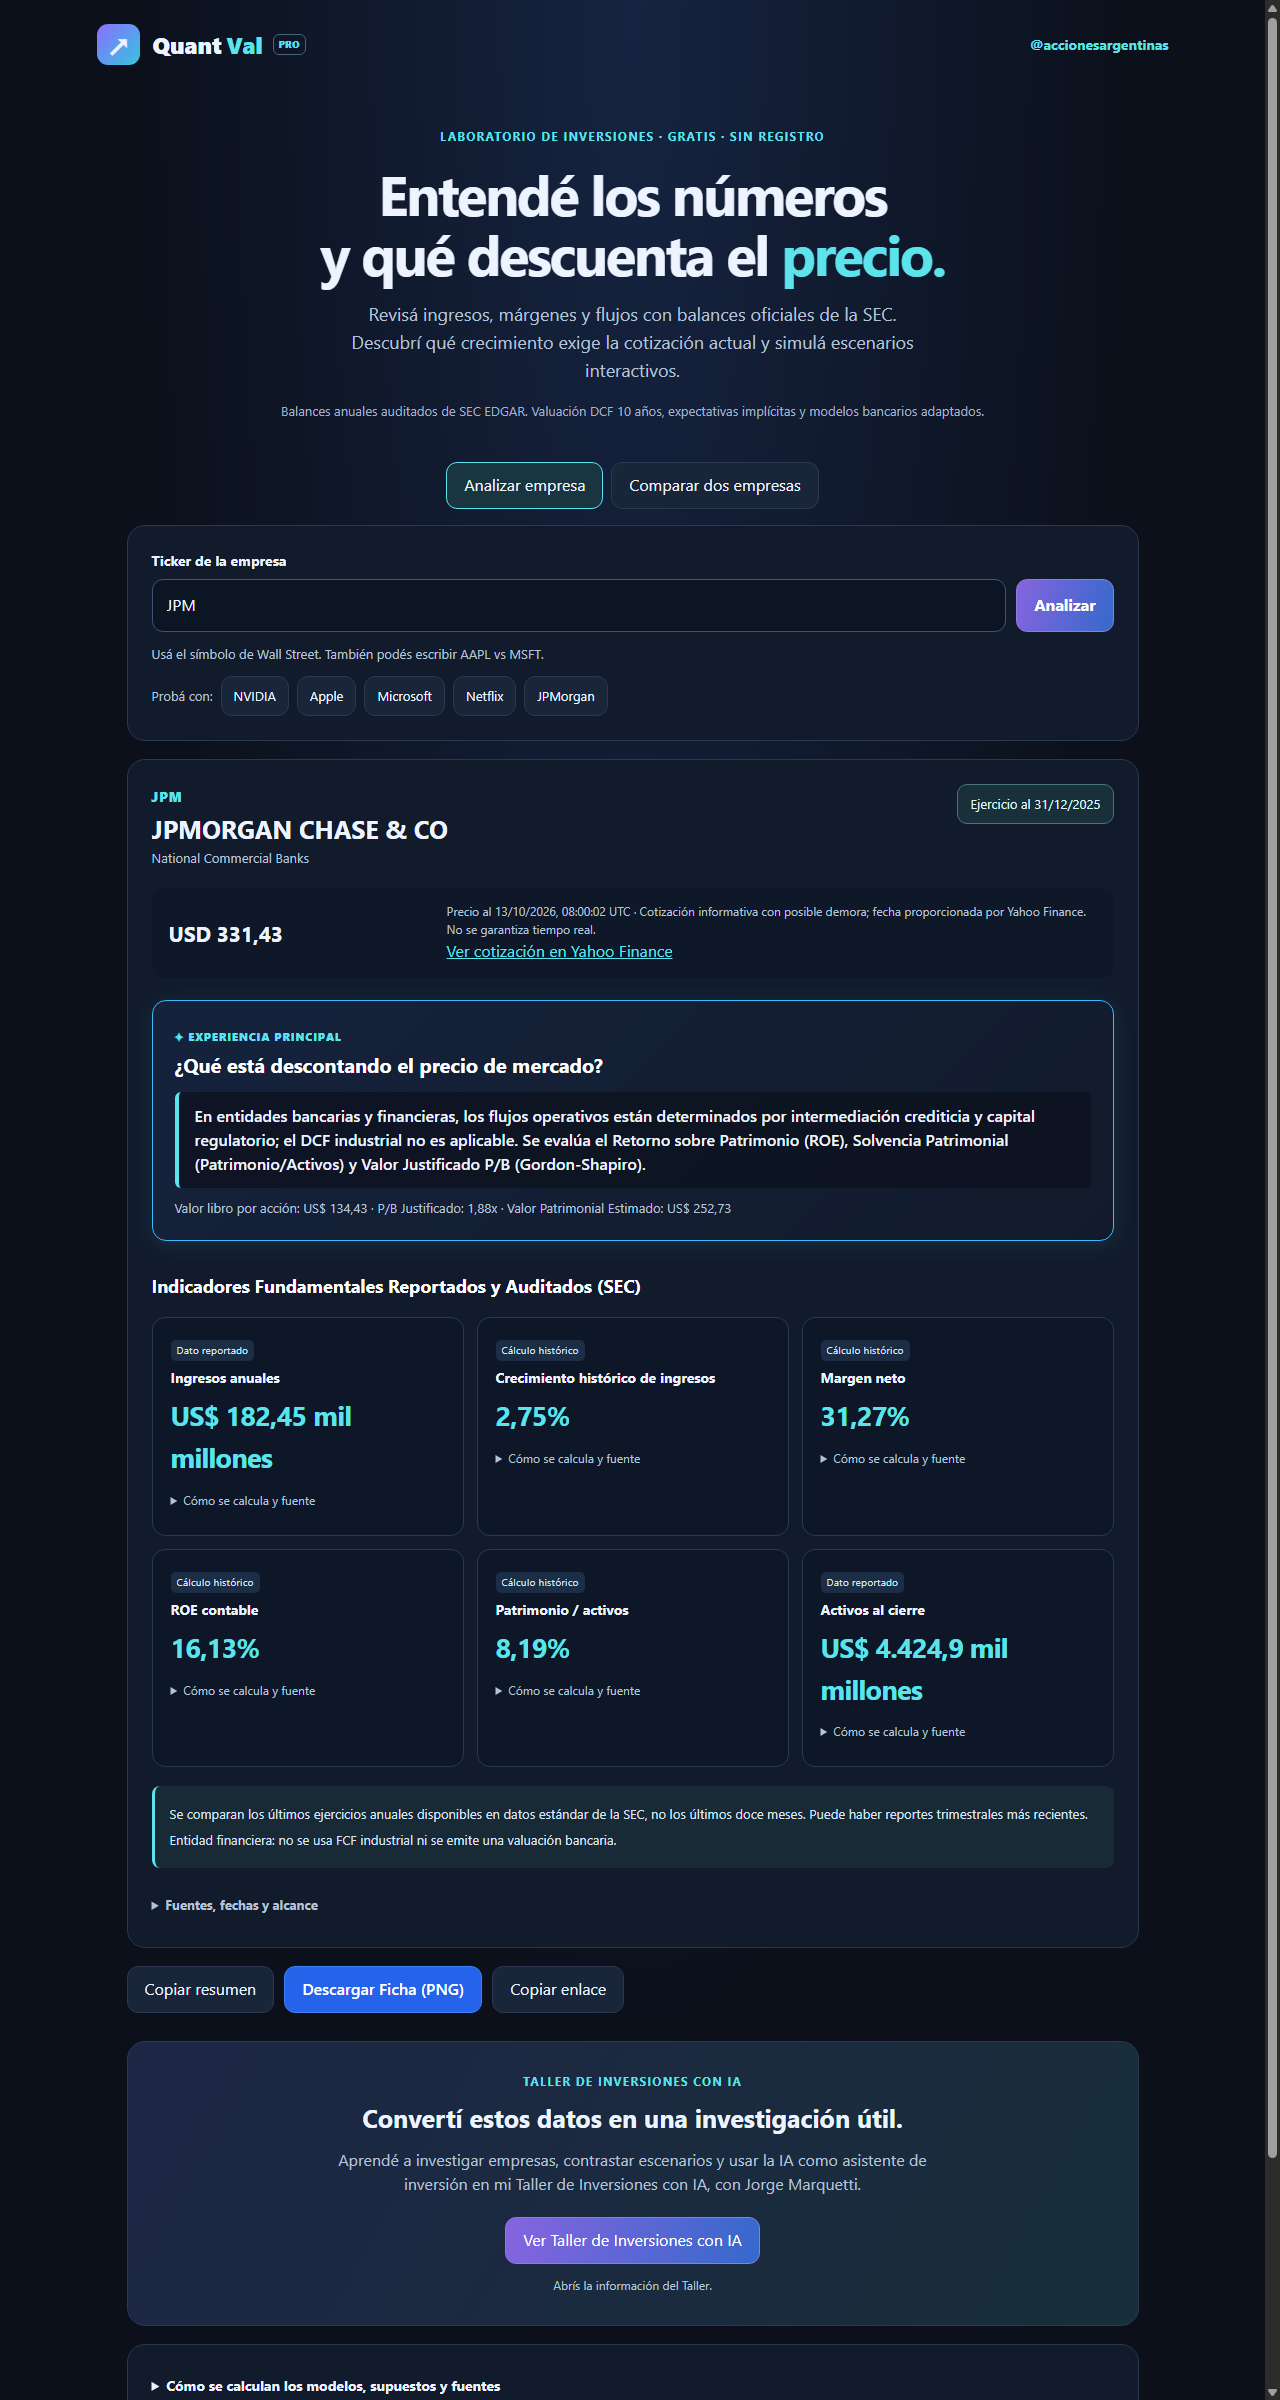
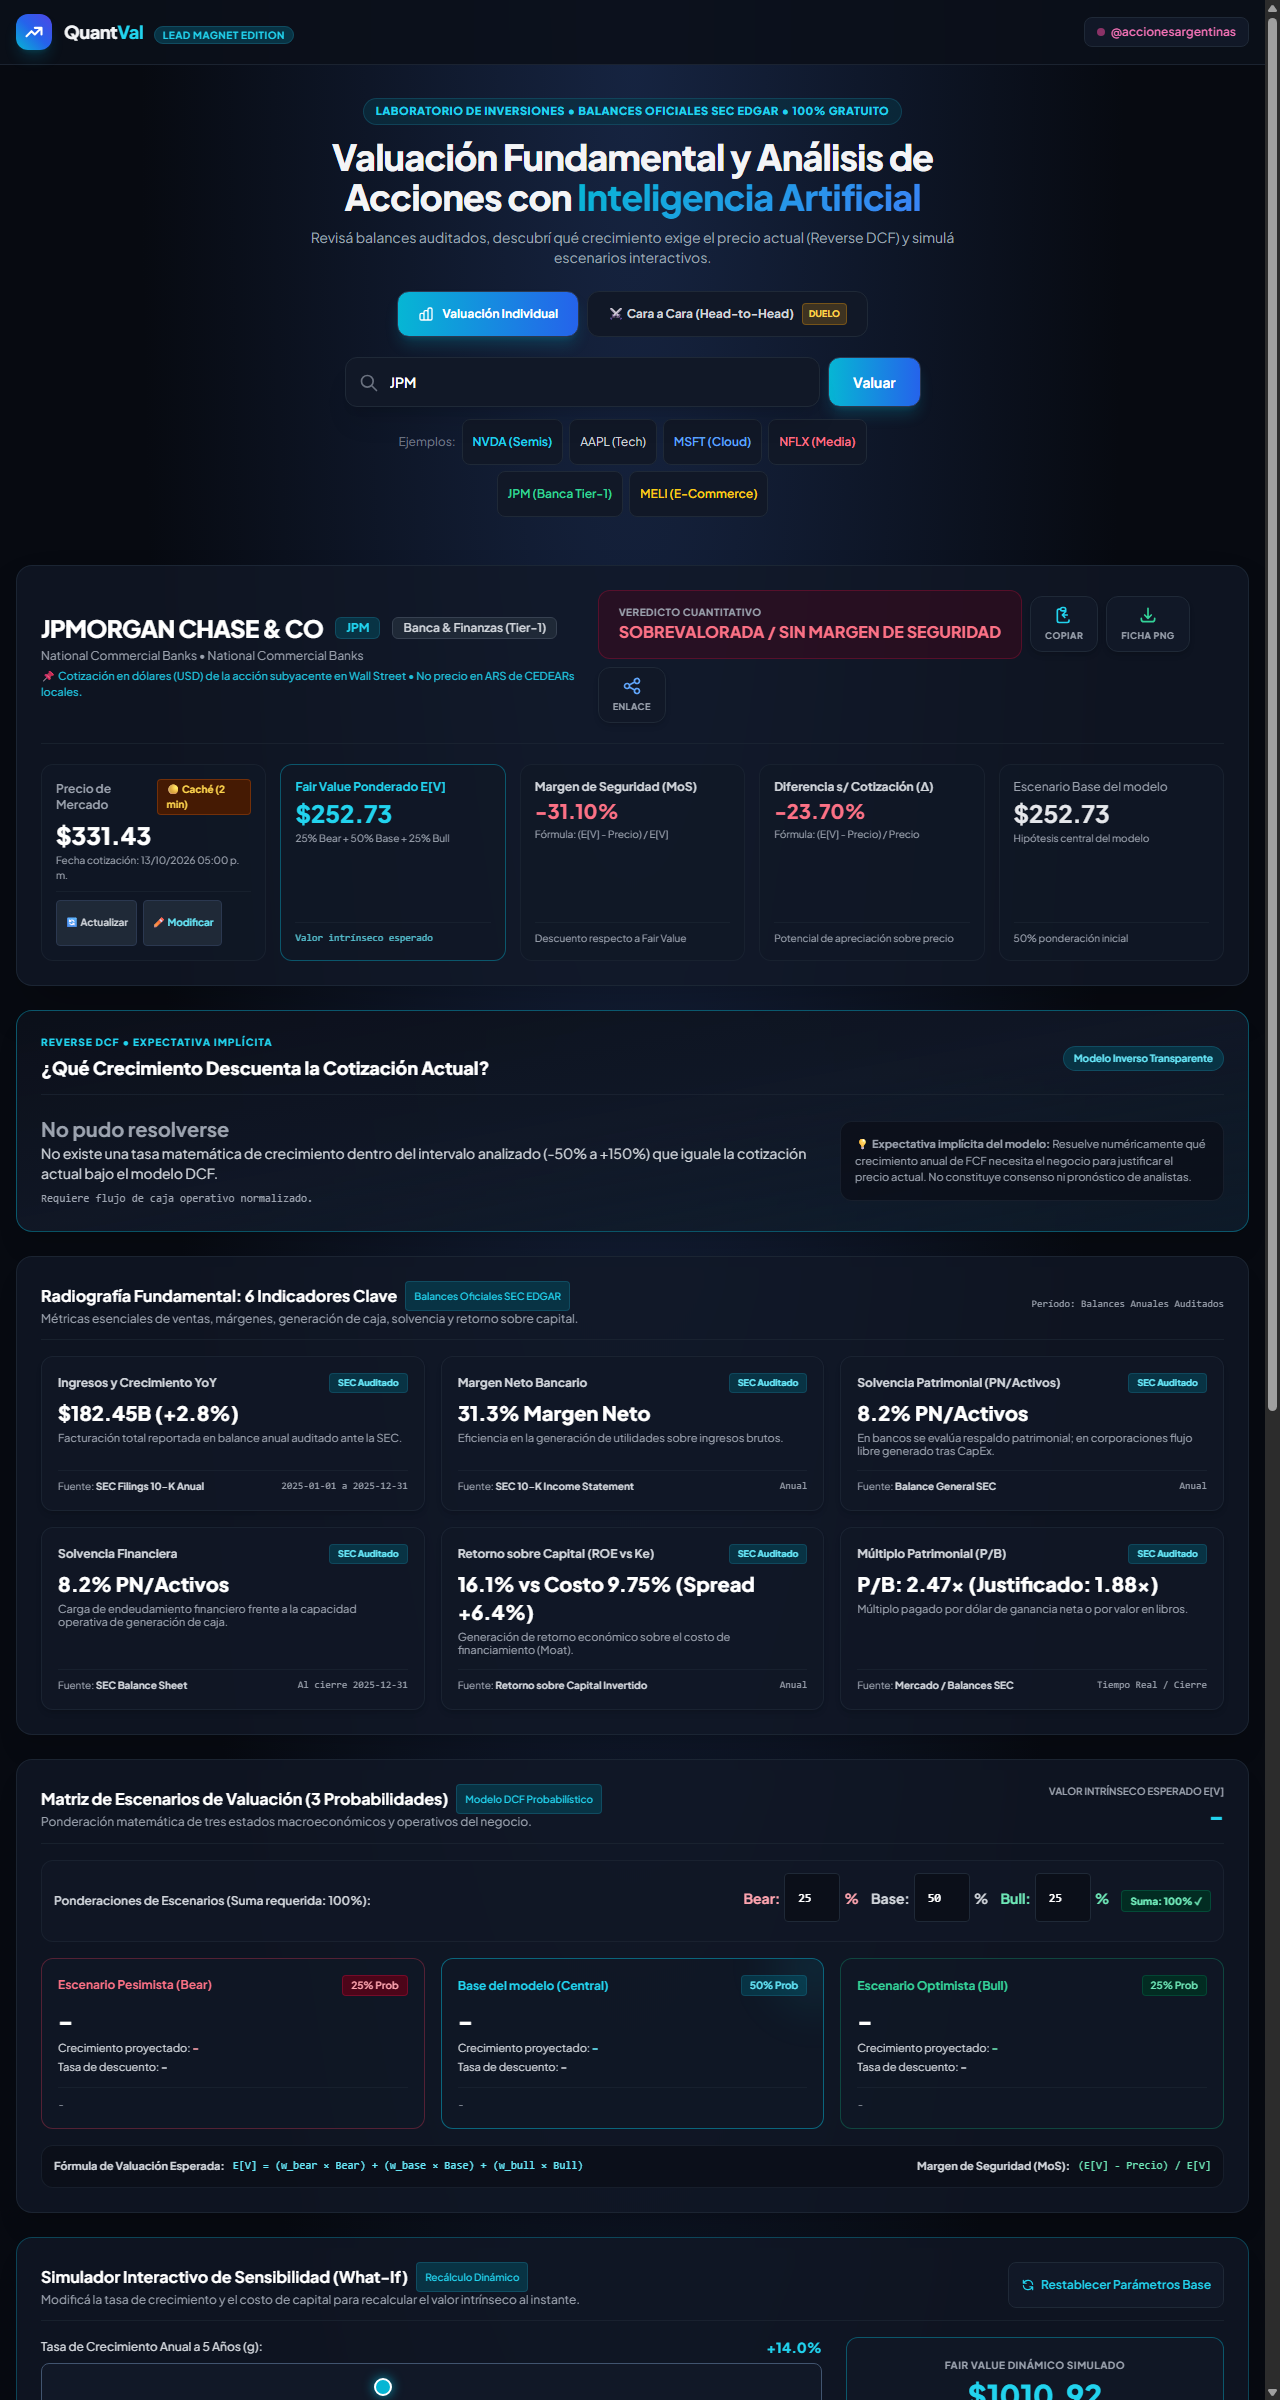
fix(frontend): align data keys for reverse DCF, expected CAGR, sensitivity simulator, and checklist

diff --git a/static/app.js b/static/app.js
@@ -316,19 +316,21 @@ function renderReverseDcf(d) {
 
   if (!revGrowthEl) return;
 
-  if (rev.solved && rev.implied_fcf_growth_5y_pct !== null && rev.implied_fcf_growth_5y_pct !== undefined) {
-    const gPct = rev.implied_fcf_growth_5y_pct;
+  const isResolved = rev.status === "resolved" || rev.solved;
+  const gPct = rev.implied_growth_pct !== undefined ? rev.implied_growth_pct : rev.implied_fcf_growth_5y_pct;
+
+  if (isResolved && gPct !== null && gPct !== undefined && Number.isFinite(gPct)) {
     revGrowthEl.innerText = `${gPct > 0 ? '+' : ''}${gPct.toFixed(1)}% anual (5 años)`;
-    revGrowthEl.className = "text-2xl sm:text-3xl font-black text-cyan-400";
+    revGrowthEl.className = "text-3xl sm:text-4xl font-black text-cyan-400 mb-2";
     if (revTextEl) {
-      revTextEl.innerText = `Con estos supuestos, para justificar la cotización actual de mercado de $${(d.quote?.price || d.valuation_summary?.current_price || 0).toFixed(2)} USD, el flujo de caja libre exige crecer a una tasa compuesta del ${gPct.toFixed(1)}% anual durante los próximos 5 años.`;
+      revTextEl.innerText = rev.text || `Con estos supuestos, para justificar la cotización actual de mercado de $${(d.quote?.price || d.valuation_summary?.current_price || 0).toFixed(2)} USD, el flujo de caja libre exige crecer a una tasa compuesta del ${gPct.toFixed(1)}% anual durante los próximos 5 años.`;
     }
     if (revParamsEl) {
-      revParamsEl.innerText = `Supuestos aplicados: WACC ${(rev.wacc_assumed_pct || 10).toFixed(1)}% • Tasa Terminal Perpetua g ${(rev.terminal_g_assumed_pct || 2.5).toFixed(1)}%`;
+      revParamsEl.innerText = `Supuestos aplicados: WACC ${(rev.wacc_assumed_pct || 10).toFixed(1)}% • Tasa Terminal Perpetua g ${(rev.terminal_g_pct || rev.terminal_g_assumed_pct || 2.5).toFixed(1)}%`;
     }
   } else {
     revGrowthEl.innerText = "No pudo resolverse";
-    revGrowthEl.className = "text-xl font-bold text-gray-400";
+    revGrowthEl.className = "text-xl font-bold text-gray-400 mb-2";
     if (revTextEl) {
       revTextEl.innerText = rev.note || "No existe una tasa matemática de crecimiento dentro del intervalo analizado (-50% a +150%) que iguale la cotización actual bajo el modelo DCF.";
     }
@@ -485,38 +487,50 @@ function onScenarioWeightChange() {
 function renderExpectedCagr(cagr) {
   if (!cagr) return;
 
+  const expVal = cagr.cagr_expected_pct !== undefined ? cagr.cagr_expected_pct : cagr.cagr_expected_weighted_pct;
   const expEl = document.getElementById("tirExpected");
-  if (expEl) expEl.innerText = `${cagr.cagr_expected_weighted_pct >= 0 ? '+' : ''}${cagr.cagr_expected_weighted_pct.toFixed(1)}%`;
+  if (expEl && expVal !== undefined && expVal !== null) {
+    expEl.innerText = `${expVal >= 0 ? '+' : ''}${expVal.toFixed(1)}%`;
+  }
 
+  const baseVal = cagr.cagr_base_pct;
   const baseEl = document.getElementById("tirBase");
-  if (baseEl) baseEl.innerText = `${cagr.cagr_base_pct >= 0 ? '+' : ''}${cagr.cagr_base_pct.toFixed(1)}%`;
+  if (baseEl && baseVal !== undefined && baseVal !== null) {
+    baseEl.innerText = `${baseVal >= 0 ? '+' : ''}${baseVal.toFixed(1)}%`;
+  }
 
+  const bullVal = cagr.cagr_bull_pct;
   const bullEl = document.getElementById("tirBull");
-  if (bullEl) bullEl.innerText = `${cagr.cagr_bull_pct >= 0 ? '+' : ''}${cagr.cagr_bull_pct.toFixed(1)}%`;
+  if (bullEl && bullVal !== undefined && bullVal !== null) {
+    bullEl.innerText = `${bullVal >= 0 ? '+' : ''}${bullVal.toFixed(1)}%`;
+  }
 
+  const bearVal = cagr.cagr_bear_pct;
   const bearEl = document.getElementById("tirBear");
-  if (bearEl) bearEl.innerText = `${cagr.cagr_bear_pct >= 0 ? '+' : ''}${cagr.cagr_bear_pct.toFixed(1)}%`;
+  if (bearEl && bearVal !== undefined && bearVal !== null) {
+    bearEl.innerText = `${bearVal >= 0 ? '+' : ''}${bearVal.toFixed(1)}%`;
+  }
 
+  const spSpread = cagr.sp500_spread_pct;
   const spEl = document.getElementById("tirSpSpread");
-  if (spEl) {
-    const spSpread = cagr.sp500_spread_pct;
+  if (spEl && spSpread !== undefined && spSpread !== null) {
     spEl.innerText = `${spSpread >= 0 ? '+' : ''}${spSpread.toFixed(1)}% pts`;
     spEl.className = spSpread >= 0 ? "text-emerald-400 font-bold" : "text-rose-400 font-bold";
   }
 
+  const trSpread = cagr.treasury_spread_pct;
   const trEl = document.getElementById("tirTreasurySpread");
-  if (trEl) {
-    const trSpread = cagr.treasury_spread_pct;
+  if (trEl && trSpread !== undefined && trSpread !== null) {
     trEl.innerText = `${trSpread >= 0 ? '+' : ''}${trSpread.toFixed(1)}% pts`;
     trEl.className = trSpread >= 0 ? "text-emerald-400 font-bold" : "text-amber-400 font-bold";
   }
 
   const badge = document.getElementById("cagrVerdictBadge");
   if (badge) {
-    badge.innerText = cagr.cagr_verdict || "Convergencia a Fair Value";
-    if (cagr.cagr_expected_weighted_pct >= 12.0) {
+    badge.innerText = cagr.verdict || cagr.cagr_verdict || "Convergencia a Fair Value";
+    if (expVal !== undefined && expVal >= 12.0) {
       badge.className = "text-xs font-bold px-3 py-1.5 rounded-lg bg-emerald-950 text-emerald-300 border border-emerald-800/60 self-start md:self-auto";
-    } else if (cagr.cagr_expected_weighted_pct >= 5.0) {
+    } else if (expVal !== undefined && expVal >= 4.0) {
       badge.className = "text-xs font-bold px-3 py-1.5 rounded-lg bg-amber-950 text-amber-300 border border-amber-800/60 self-start md:self-auto";
     } else {
       badge.className = "text-xs font-bold px-3 py-1.5 rounded-lg bg-rose-950 text-rose-300 border border-rose-800/60 self-start md:self-auto";
@@ -529,7 +543,8 @@ function renderExpectedCagr(cagr) {
 // -------------------------------------------------------------
 function initSensitivitySliders(d) {
   const v = d.valuation || {};
-  baseGrowth = Math.max(-10, Math.min(45, (v.growth ? v.growth * 100 : (d.reverse_dcf?.implied_fcf_growth_5y_pct || 14))));
+  const impliedG = d.reverse_dcf?.implied_growth_pct !== undefined ? d.reverse_dcf.implied_growth_pct : (d.reverse_dcf?.implied_fcf_growth_5y_pct || 14);
+  baseGrowth = Math.max(-10, Math.min(45, (v.growth ? v.growth * 100 : impliedG)));
   baseWacc = Math.max(6, Math.min(16, (v.wacc ? v.wacc * 100 : 9.5)));
   baseMultiple = d.archetype === "FINANCIALS_BANKING" ? 1.5 : (v.fair_pe_benchmark || 20.0);
   baseFairValue = d.valuation_summary?.composite_fair_value || 100;
@@ -646,8 +661,10 @@ function recalculateSensitivity() {
 
   const breakevenEl = document.getElementById("simBreakevenNote");
   if (breakevenEl) {
-    const impliedG = currentData.reverse_dcf?.implied_fcf_growth_5y_pct;
-    if (impliedG !== null && impliedG !== undefined) {
+    const impliedG = currentData.reverse_dcf?.implied_growth_pct !== undefined 
+      ? currentData.reverse_dcf.implied_growth_pct 
+      : currentData.reverse_dcf?.implied_fcf_growth_5y_pct;
+    if (impliedG !== null && impliedG !== undefined && Number.isFinite(impliedG)) {
       const diffG = g - impliedG;
       breakevenEl.innerText = `El precio cruza a subvaluación a partir de un crecimiento > ${impliedG.toFixed(1)}% anual (actual sim: ${diffG >= 0 ? '+' : ''}${diffG.toFixed(1)}% spread).`;
     } else {
@@ -668,10 +685,10 @@ function renderQualityScorecard(d) {
   const piotBarEl = document.getElementById("piotBar");
   const piotNoteEl = document.getElementById("piotNote");
 
-  if (isBank) {
+  if (isBank || piot.status === "not_applicable") {
     if (piotScoreEl) piotScoreEl.innerText = "N/A Bancos";
     if (piotBarEl) piotBarEl.style.width = "100%";
-    if (piotNoteEl) piotNoteEl.innerText = "No aplicable a entidades financieras/bancarias (Basilea III / estructura de balance de intermediación).";
+    if (piotNoteEl) piotNoteEl.innerText = piot.reason || "No aplicable a entidades financieras/bancarias (Basilea III / estructura de balance de intermediación).";
   } else {
     const score = piot.score !== undefined ? piot.score : (piot.total_score || 0);
     const maxAvail = piot.max_available || 6;
@@ -683,27 +700,28 @@ function renderQualityScorecard(d) {
   }
 
   // Mayer 100-Baggers
+  const mayer = d.mayer_100_bagger_metrics || {};
   const mayerTitleEl = document.getElementById("mayerTitle");
   const mayerRoicEl = document.getElementById("mayerRoic");
   const mayerBenchEl = document.getElementById("mayerBenchmark");
   const roicSpreadEl = document.getElementById("roicSpread");
 
-  if (isBank) {
+  if (isBank || mayer.model === "banking_roe") {
     if (mayerTitleEl) mayerTitleEl.innerText = "Retorno s/ Patrimonio (ROE)";
-    const roeVal = d.mayer_100_bagger_metrics?.return_val_pct || 14.5;
-    const keVal = d.mayer_100_bagger_metrics?.cost_val_pct || 9.75;
-    const spreadRoe = roeVal - keVal;
+    const roeVal = mayer.return_val_pct !== undefined ? mayer.return_val_pct : 16.1;
+    const keVal = mayer.cost_val_pct !== undefined ? mayer.cost_val_pct : 9.75;
+    const spreadRoe = mayer.spread_pct !== undefined ? mayer.spread_pct : (roeVal - keVal);
     if (mayerRoicEl) mayerRoicEl.innerText = `${roeVal.toFixed(1)}%`;
-    if (mayerBenchEl) mayerBenchEl.innerText = `Coste de Capital Ke: ${keVal.toFixed(1)}%`;
+    if (mayerBenchEl) mayerBenchEl.innerText = `Coste de Capital Ke: ${keVal.toFixed(2)}%`;
     if (roicSpreadEl) {
       roicSpreadEl.innerText = `Spread ROE vs Ke: ${spreadRoe >= 0 ? '+' : ''}${spreadRoe.toFixed(1)}% pts`;
       roicSpreadEl.className = spreadRoe >= 0 ? "text-xs font-bold text-emerald-400" : "text-xs font-bold text-rose-400";
     }
   } else {
     if (mayerTitleEl) mayerTitleEl.innerText = "ROIC (Christopher Mayer)";
-    const roicVal = d.mayer_100_bagger_metrics?.roic !== undefined ? (d.mayer_100_bagger_metrics.roic * 100) : (d.mayer_100_bagger_metrics?.return_val_pct || 18.0);
-    const waccVal = d.cost_of_capital?.wacc ? (d.cost_of_capital.wacc * 100) : 9.5;
-    const spreadRoic = roicVal - waccVal;
+    const roicVal = mayer.return_val_pct !== undefined ? mayer.return_val_pct : (mayer.roic ? mayer.roic * 100 : 18.0);
+    const waccVal = mayer.cost_val_pct !== undefined ? mayer.cost_val_pct : (d.cost_of_capital?.wacc ? d.cost_of_capital.wacc * 100 : 9.75);
+    const spreadRoic = mayer.spread_pct !== undefined ? mayer.spread_pct : (roicVal - waccVal);
     if (mayerRoicEl) mayerRoicEl.innerText = `${roicVal.toFixed(1)}%`;
     if (mayerBenchEl) mayerBenchEl.innerText = `Umbral Mayer: > 15% | WACC: ${waccVal.toFixed(1)}%`;
     if (roicSpreadEl) {
@@ -713,22 +731,23 @@ function renderQualityScorecard(d) {
   }
 
   // Altman Solvency
+  const alt = d.altman_solvency || {};
   const altTitleEl = document.getElementById("altmanTitle");
   const altScoreEl = document.getElementById("altmanScore");
   const altZoneEl = document.getElementById("altmanZone");
 
-  if (isBank) {
-    if (altTitleEl) altTitleEl.innerText = "Solvencia Bancaria (Patrimonio)";
-    const eqRatio = d.altman_solvency?.equity_ratio_pct || 10.2;
-    if (altScoreEl) altScoreEl.innerText = `${eqRatio.toFixed(1)}%`;
+  if (isBank || alt.status === "not_applicable") {
+    if (altTitleEl) altTitleEl.innerText = "Solvencia Bancaria (Patrimonio/Activos)";
+    const scoreVal = alt.score !== undefined ? alt.score : 8.2;
+    if (altScoreEl) altScoreEl.innerText = `${scoreVal.toFixed(1)}%`;
     if (altZoneEl) {
-      altZoneEl.innerText = d.altman_solvency?.zone || "Solvente (Basilea III)";
+      altZoneEl.innerText = alt.category || "Capitalización Adecuada";
       altZoneEl.className = "text-xs font-bold text-emerald-400 mb-1";
     }
   } else {
-    const alt = d.altman_solvency || {};
-    if (altTitleEl) altTitleEl.innerText = alt.model_used || "Altman Solvencia";
-    if (altScoreEl) altScoreEl.innerText = alt.z_score !== undefined ? alt.z_score.toFixed(2) : "N/D";
+    if (altTitleEl) altTitleEl.innerText = alt.model_used || "Altman Solvencia (Industrial)";
+    const scoreVal = alt.score !== undefined ? alt.score : alt.z_score;
+    if (altScoreEl) altScoreEl.innerText = scoreVal !== undefined && scoreVal !== null ? scoreVal.toFixed(2) : "N/D";
     if (altZoneEl) {
       altZoneEl.innerText = alt.zone || "Zona Segura";
       altZoneEl.className = (alt.zone && (alt.zone.includes("Peligro") || alt.zone.includes("Distress"))) ? "text-xs font-bold text-rose-400 mb-1" : "text-xs font-bold text-emerald-400 mb-1";
@@ -740,9 +759,8 @@ function renderQualityScorecard(d) {
 // Checklist Fundamental de Due Diligence (8 Criterios)
 // -------------------------------------------------------------
 function renderChecklist(d) {
-  const isBank = (d.archetype === "FINANCIALS_BANKING" || d.financial_sector);
-  const ch = d.checklist_due_diligence || {};
-  const items = ch.criteria || [];
+  const ch = d.checklist_due_diligence;
+  const items = Array.isArray(ch) ? ch : (ch?.criteria || []);
 
   const badge = document.getElementById("checklistScoreBadge");
   const verd = document.getElementById("checklistVerdict");
@@ -752,22 +770,23 @@ function renderChecklist(d) {
   grid.innerHTML = "";
 
   if (items.length > 0) {
-    let passedCount = ch.passed_count !== undefined ? ch.passed_count : items.filter(x => x.pass).length;
-    if (badge) badge.innerText = `${passedCount}/8 Aprobados`;
-    if (verd) verd.innerText = ch.verdict || (passedCount >= 6 ? "Calidad Fundamental Sobresaliente" : "Calidad Adecuada con Puntos a Monitorear");
+    const passedCount = items.filter(x => x.passed || x.pass).length;
+    if (badge) badge.innerText = `${passedCount}/${items.length} Aprobados`;
+    if (verd) verd.innerText = passedCount >= 6 ? "Calidad Fundamental Sobresaliente" : "Calidad Adecuada con Puntos a Monitorear";
 
     items.forEach(it => {
+      const isPassed = Boolean(it.passed || it.pass);
       const card = document.createElement("div");
-      card.className = `p-3 rounded-xl border ${it.pass ? 'bg-emerald-950/20 border-emerald-800/40 text-gray-200' : 'bg-rose-950/20 border-rose-800/40 text-gray-300'}`;
+      card.className = `p-3 rounded-xl border ${isPassed ? 'bg-emerald-950/20 border-emerald-800/40 text-gray-200' : 'bg-rose-950/20 border-rose-800/40 text-gray-300'}`;
       card.innerHTML = `
         <div class="flex items-center justify-between mb-1">
-          <span class="font-bold text-xs ${it.pass ? 'text-emerald-400' : 'text-rose-400'} flex items-center gap-1">
-            <span>${it.pass ? '✓' : '✗'}</span>
-            <span>${it.name}</span>
+          <span class="font-bold text-xs ${isPassed ? 'text-emerald-400' : 'text-rose-400'} flex items-center gap-1">
+            <span>${isPassed ? '✓' : '✗'}</span>
+            <span>${it.title || it.name}</span>
           </span>
         </div>
-        <div class="text-[11px] font-semibold text-white mb-0.5">${it.metric || 'N/D'}</div>
-        <div class="text-[10px] text-gray-400 leading-tight">${it.detail || ''}</div>
+        <div class="text-[11px] font-semibold text-white mb-0.5">${it.value || it.metric || 'N/D'}</div>
+        <div class="text-[10px] text-gray-400 leading-tight">${it.criteria || it.detail || ''}</div>
       `;
       grid.appendChild(card);
     });
